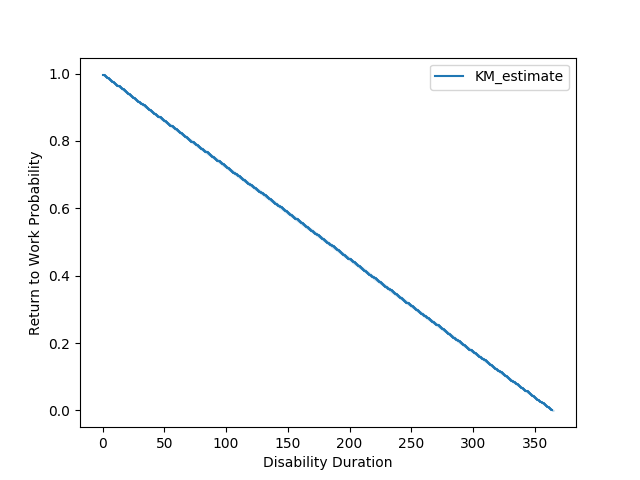
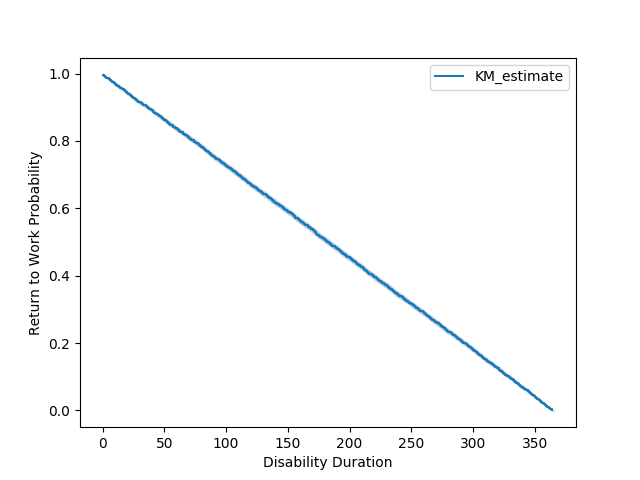
Commit before importing changes from github.

diff --git a/gen_db.py b/gen_db.py
@@ -4,7 +4,7 @@ conn = sqlite3.connect('var/peersdb.sqlite3')
 c = conn.cursor()
 diag_pool=['724.2','846','847','847.1','847.2','847.3','847.4','847.9']
 
-for j in range(2000):
+for j in range(20000):
     duration = np.random.randint(0,365)
     age = np.random.randint(18,70)
     diagnosis = diag_pool[np.random.randint(0,8)]
